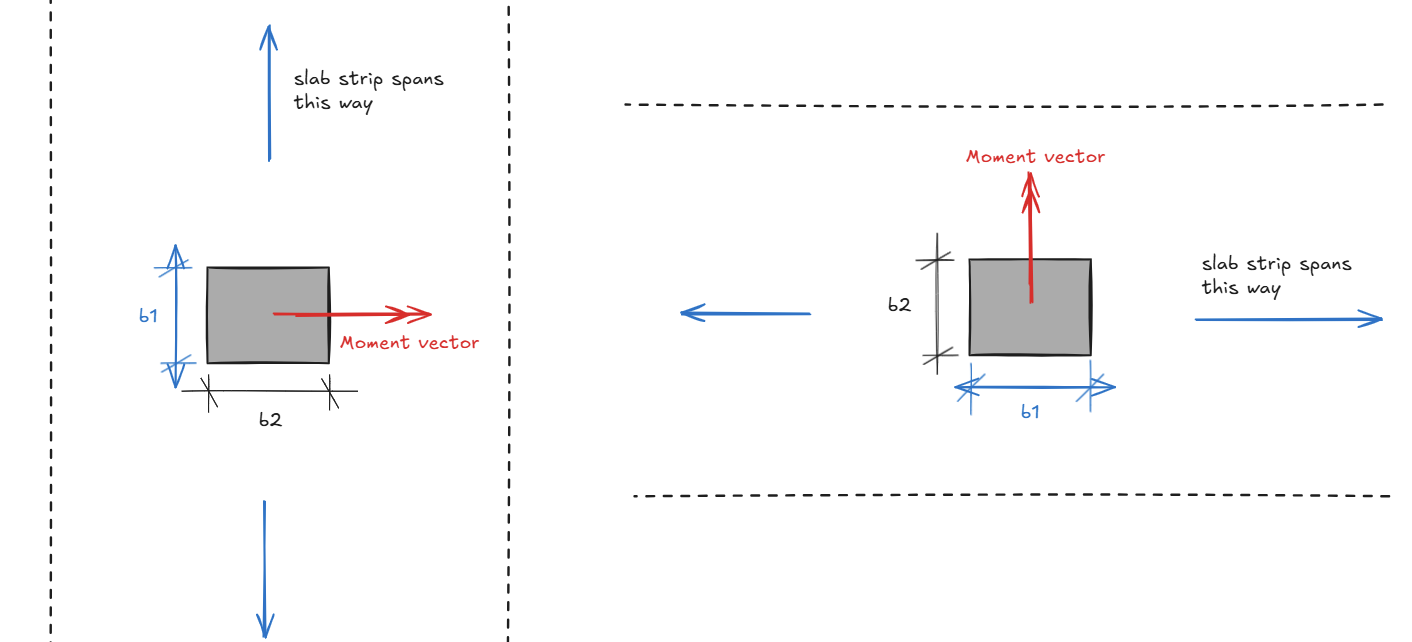
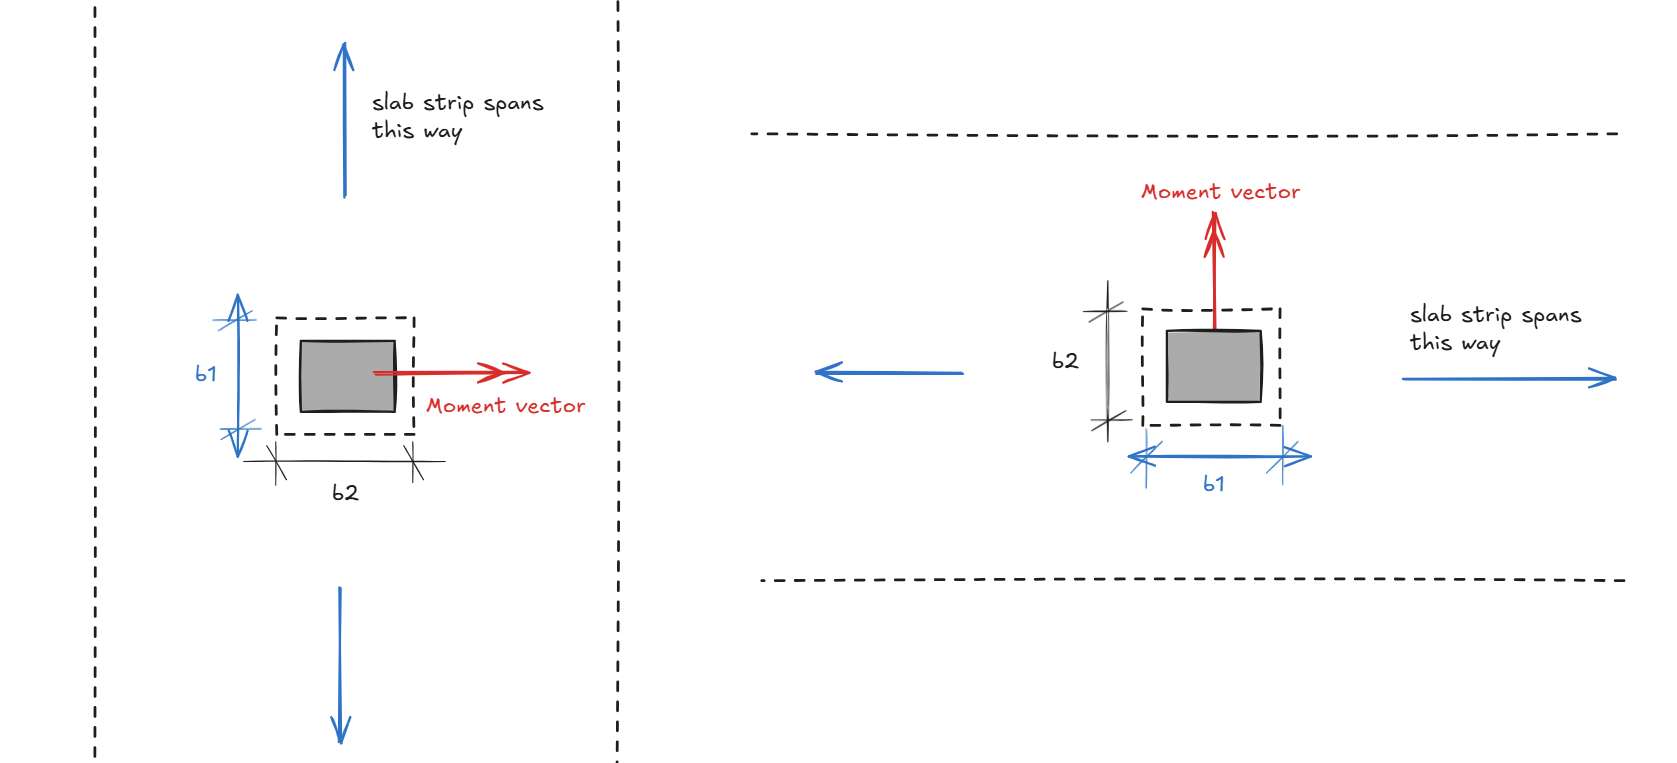
readme update

diff --git a/README.md b/README.md
@@ -437,7 +437,7 @@ So what is the trade-off? The lack of supporting beams means **less redundancy**
 
 The evaluation of punching shear is conceptually simple (we will gradually introduce more nuances). Assuming negligible moment transfer, the shear stress is equal to the shear load transferred to the column divided by the area of the failure plane. This failure plane is an inverted truncated cone. To simplify, ACI-318 allows the critical **shear perimeter** to be approximated as being d/2 offset from the column face. The critical shear section is shown in the figure below in dotted line. 
 
-<p align="center"><img src="./doc/theory3.png" width="30%"></p>
+<p align="center"><img src="./doc/theory3.png" width="40%"></p>
 
 Therefore, the total shear area of the critical section is equal to the perimeter ($b_o$) times the slab depth ($d$). Note slab depth is measured from the extreme compression fiber to tension rebar (taking the average depth of the two-orthogonal rebar directions).
 
@@ -449,11 +449,15 @@ $$v_u = \frac{V_u}{b_od}$$
 
 In practice, the equation above is only really good as a preliminary estimate. Moment transfer can arise from unequal spans, uneven load distribution, uneven stiffness, and many other reasons. It is almost always unreasonable to assume zero moment transfer, especially so at edge and corner columns. Concrete buildings are monolithic after all - there is no such thing as pinned in concrete design. The only time it is reasonable to assume negligible moment transfer is in an idealized world where cows are spheres and there's no friction (i.e. in classrooms).
 
-To account for the effect of moment transfer, ACI-318 provides an equation that is vaguely reminiscent of the combined stress formulas with see in college textbooks ($P/A + Mc/I$). Let's go through the variables in the second term one-by-one.
+To account for the effect of moment transfer, ACI-318 provides an equation that is vaguely reminiscent of the combined stress formulas with see in college textbooks ($P/A + Mc/I$) but not exactly. Below is an illustration of the superposition of shear stresses from the [Macgregor Textbook](https://www.amazon.com/Reinforced-Concrete-Mechanics-Design-6th/dp/0132176521) (slightly modified). I firmly believe this is one of the greatest engineering textbook ever written and I'm a huge fan of Dr. MacGregor, not least because he is also Canadian.
 
 $$v_u = \frac{V_u}{b_o d} \pm \frac{\gamma_v M_{sc} c}{J_c}$$
 
+<p align="center"><img src="./doc/theory7.png" width="80%"></p>
 
+
+
+Let's go through the variables in the second term one-by-one.
 
 **Unbalanced Moment ($M_{sc}$)**
 
@@ -463,18 +467,18 @@ The slab moment transferred into the supporting column is known as **unbalanced 
 
 **Moment Transfer Ratio ($\gamma$)**
 
-This unbalanced moment described above can transfer into the columns in two ways. This is illustrated in the figure below.
+The unbalanced moment described above can transfer into the columns in two ways. This is illustrated in the figure below.
 
 * Flexure within a limited transfer widths ($\gamma_f$)
 * Shear ($\gamma_v$)
 
 
 
-<p align="center"><img src="./doc/theory5.png" width="30%"></p>
+<p align="center"><img src="./doc/theory5.png" width="40%"></p>
 
 We use the Greek letter ($\gamma$) to denote the percentage of moment transferred through each mode. Taken together, the two modes of transfer should add up to 100% (i.e. $\gamma_v + \gamma_f = 1.0$). The proportion of moment transferred by shear ($\gamma_v M_{sc}$) is of interest for us because it will amplify shear stress.
 
-ACI-318 has equations for estimating $\gamma$ based on the column dimension. $b_1$ is the column dimension parallel to the slab span, whereas $b_2$ is the column dimension perpendicular to the slab span. To get a sense proportion, the ratio for a square column is 60% through flexure, and 40% through shear.
+ACI-318 has equations for estimating $\gamma$ based on the column dimension. $b_1$ is the critical perimeter dimension parallel to the slab span, whereas $b_2$ is the critical perimeter dimension perpendicular to the slab span. For example, the ratio for a square column is 60% through flexure, and 40% through shear.
 
 $$\gamma_f = \frac{1}{1+2/3\sqrt{\frac{b_1}{b_2}}}$$
 
@@ -482,7 +486,21 @@ $$\gamma_v = 1 - \gamma_f$$
 
 
 
-<p align="center"><img src="./doc/theory6.png" width="70%"></p>
+<p align="center"><img src="./doc/theory6.png" width="100%"></p>
+
+**Distance From Perimeter Centroid ($c$)**
+
+The parameter c is the distance from the centroid to any fiber in the parameter. This distance is measured orthogonal to the applied moment vector. We usually only care about the fiber furthest away where the shear stress will be highest.
+
+<p align="center"><img src="./doc/theory9.png" width="70%"></p>
+
+The critical shear perimeter has a centroid that we can calculate. For interior columns, the centroid of the column coincides exactly with the centroid of the shear perimeter which is what we see in the figure above. However, as we see in the figure below, this is not the case for edge and corner conditions.
+
+<p align="center"><img src="./doc/theory8.png" width="60%"></p>
+
+**"Polar Moment of Inertia" ($J_c$)**
+
+The last parameter we shall explore is ($J_c$)...
 
 
 
@@ -491,6 +509,14 @@ $$\gamma_v = 1 - \gamma_f$$
 
 
 
+
+
+
+
+
+
+
+**What About Allowable Shear Capacity?**
 
 on the capacity side, I won't be covering this in detail. Please refer to the building code for more detail. In general, the allowable shear stress ranges from $2\sqrt{f'_c}$ to  $4\sqrt{f'_c}$
 
@@ -500,7 +526,15 @@ IN PROGRESS
 
 
 
-### 2.0 History
+
+
+
+
+
+
+
+
+### 2.0 Background Info on J
 
 
 
